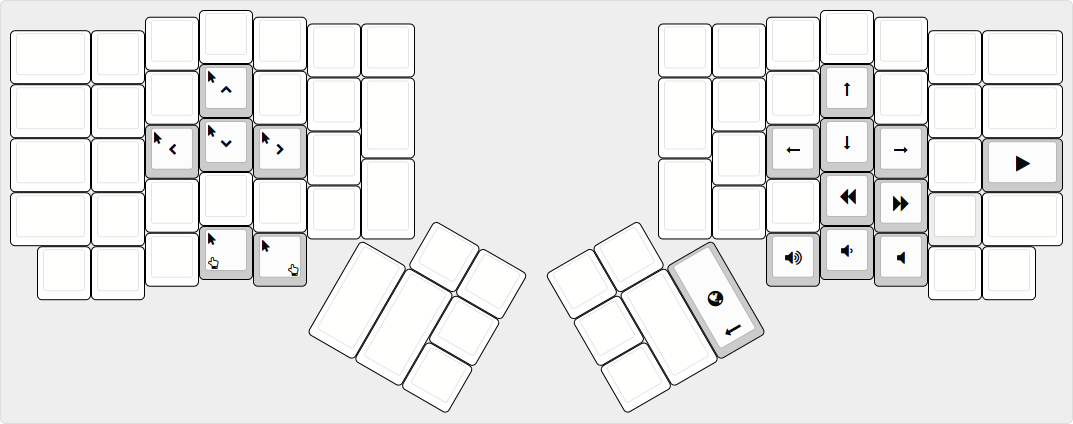
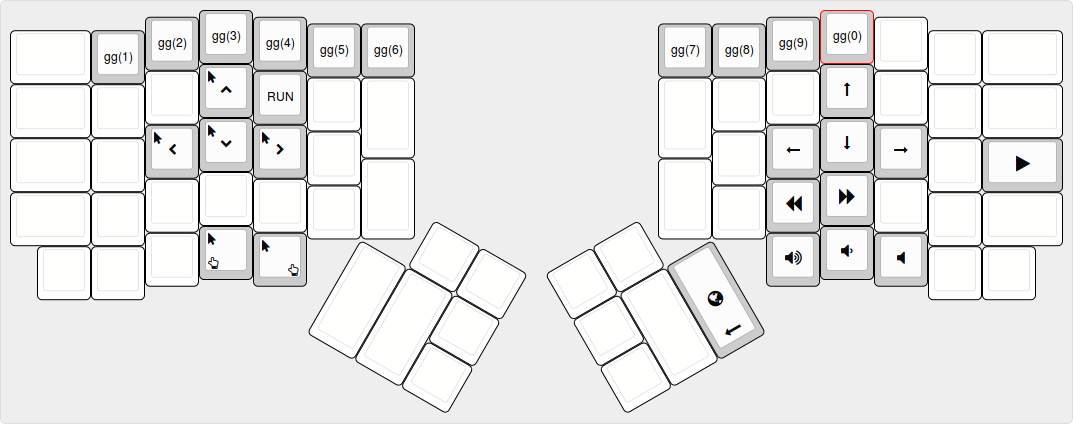
[deadcyclo layout] Added second unicode layer, more sane layer switches

Changed region(s): [[0.0615, 0.0, 0.3998, 0.3066], [0.6151, 0.0, 0.8304, 0.184], [0.7074, 0.3986, 0.8611, 0.5519]]

diff --git a/keyboards/ergodox/keymaps/deadcyclo/keymap.c b/keyboards/ergodox/keymaps/deadcyclo/keymap.c
@@ -5,8 +5,9 @@
 
 #define BASE 0 // default layer
 #define SYMB 1 // symbols
-#define MDIA 2 // media keys
-#define NAVG 3 // navigation
+#define MDIA 2 // media keys and navigation
+#define UNI 3  // unicode 1
+#define UNI2 4 // unicode 2
 
 enum macros {
   RUN
@@ -94,11 +95,11 @@ const uint16_t PROGMEM keymaps[][MATRIX_ROWS][MATRIX_COLS] = {
  * ,--------------------------------------------------.           ,--------------------------------------------------.
  * | Esc/L3 |   1  |   2  |   3  |   4  |   5  |  6   |           |   6  |   7  |   8  |   9  |   0  |   -  |   =/L3 |
  * |--------+------+------+------+------+-------------|           |------+------+------+------+------+------+--------|
- * | Tab/L1 |   Q  |   W  |   E  |   R  |   T  |  L1  |           |  L1  |   Y  |   U  |   I  |   O  |   P  |   \/L1 |
+ * | Tab/L1 |   Q  |   W  |   E  |   R  |   T  |  L1  |           |  L2  |   Y  |   U  |   I  |   O  |   P  |   \/L1 |
  * |--------+------+------+------+------+------|      |           |      |------+------+------+------+------+--------|
- * | LCtrl  |   A  |   S  |   D  |   F  |   G  |------|           |------|   H  |   J  |   K  |   L  |; / L2| ctrl/'|
+ * | LCtrl  |   A  |   S  |   D  |   F  |   G  |------|           |------|   H  |   J  |   K  |   L  |   ;  | ctrl/'|
  * |--------+------+------+------+------+------| Hyper|           | Meh  |------+------+------+------+------+--------|
- * | LShift |Z/Ctrl|   X  |   C  |   V  |   B  |      |           |      |   N  |   M  |   ,  |   .  |//Ctrl| RShift |
+ * | LShift |Z / L4|X / L2|   C  |   V  |   B  |      |           |      |   N  |   M  |   ,  |. / L2|/ / L4| RShift |
  * `--------+------+------+------+------+-------------'           `-------------+------+------+------+------+--------'
  *   |Grv/L1|  UNI |AltShf| Lalt | Ralt |                                       | Lalt | Ralt | LEAD |  UNI | ~/L1 |
  *   `----------------------------------'                                       `----------------------------------'
@@ -114,25 +115,25 @@ const uint16_t PROGMEM keymaps[][MATRIX_ROWS][MATRIX_COLS] = {
 // Otherwise, it needs KC_*
 [BASE] = KEYMAP(  // layer 0 : default
         // left hand
-	LT(NAVG,KC_ESC),         KC_1,         KC_2,   KC_3,   KC_4,   KC_5,   KC_6,
+	LT(UNI,KC_ESC),         KC_1,         KC_2,   KC_3,   KC_4,   KC_5,   KC_6,
         LT(SYMB,KC_TAB),        KC_Q,         KC_W,   KC_E,   KC_R,   KC_T,   TG(SYMB),
-        KC_LCTL,        LT(MDIA, KC_A),         KC_S,   KC_D,   KC_F,   KC_G,
-        KC_LSFT,        CTL_T(KC_Z),  KC_X,   KC_C,   KC_V,   KC_B,   ALL_T(KC_NO),
+        KC_LCTL,        KC_A,         KC_S,   KC_D,   KC_F,   KC_G,
+        KC_LSFT,        LT(4, KC_Z),  LT(MDIA, KC_X),   KC_C,   KC_V,   KC_B,   ALL_T(KC_NO),
         LT(SYMB,KC_GRV),LCTL(LSFT(KC_U)),      LALT(KC_LSFT),  KC_RALT,KC_LALT,
                                               ALT_T(KC_APP),  KC_HOME,
                                                               KC_END,
                                                KC_SPC,KC_TAB,KC_LBRC,
         // right hand
-		KC_6,     KC_7,   KC_8,   KC_9,   KC_0,   KC_MINS,             LT(NAVG,KC_EQL),
-	TG(SYMB),    KC_Y,   KC_U,   KC_I,   KC_O,   KC_P,             LT(SYMB, KC_BSLS),
-	KC_H,   KC_J,   KC_K,   KC_L,   LT(MDIA, KC_SCLN),CTL_T(KC_QUOT),
-             MEH_T(KC_NO),KC_N,   KC_M,   KC_COMM,KC_DOT, CTL_T(KC_SLSH),   KC_RSFT,
+		KC_6,     KC_7,   KC_8,   KC_9,   KC_0,   KC_MINS,             LT(UNI,KC_EQL),
+	TG(MDIA),    KC_Y,   KC_U,   KC_I,   KC_O,   KC_P,             LT(SYMB, KC_BSLS),
+	KC_H,   KC_J,   KC_K,   KC_L,   KC_SCLN,CTL_T(KC_QUOT),
+	MEH_T(KC_NO),KC_N,   KC_M,   KC_COMM,LT(MDIA, KC_DOT), LT(UNI2, KC_SLSH),   KC_RSFT,
 		KC_LALT,  KC_RALT,KC_LEAD,LCTL(LSFT(KC_U)),          LT(SYMB,KC_TILD),
              KC_PGUP,        KC_INS,
              KC_PGDN,
-             KC_RBRC,KC_BSPC, KC_ENT
+             KC_RBRC,KC_BSPC, KC_ENT   
     ),
-/* Keymap 1: Symbol Layer LCTL(LSFT(KC_U))
+/* Keymap 1: Symbol Layer LCTL(LSFT(KC_U))  
  *                                                  
  * ,--------------------------------------------------.           ,--------------------------------------------------.
  * |        |  F1  |  F2  |  F3  |  F4  |  F5  |  F6  |           |  F6  |  F7  |  F8  |  F9  |  F10 |  F11 |   F12  |
@@ -177,13 +178,13 @@ const uint16_t PROGMEM keymaps[][MATRIX_ROWS][MATRIX_COLS] = {
 /* Keymap 2: Media, mouse and navigation
  *
  * ,--------------------------------------------------.           ,--------------------------------------------------.
- * |        | gg(1)|      |      |      |      |      |           |      |      |      |      |      |      |        |
+ * |        | gg(1)| gg(2)| gg(3)| gg(4)| gg(5)| gg(6)|           | gg(6)| gg(7)| gg(8)| gg(9)| gg(0)|      |        |
  * |--------+------+------+------+------+-------------|           |------+------+------+------+------+------+--------|
  * |        |      |      | MsUp | RUN  |      |      |           |      |      |      |  Up  |      |      |        |
  * |--------+------+------+------+------+------|      |           |      |------+------+------+------+------+--------|
  * |        |      |MsLeft|MsDown|MsRght|      |------|           |------|      | Left | Down | Right|      |  Play  |
  * |--------+------+------+------+------+------|      |           |      |------+------+------+------+------+--------|
- * |        |      |      |      |      |      |      |           |      |      |      | Prev | Next |      |        |
+ * |        |      |      |      |      |      |      |           |      |      | Prev | Next |      |      |        |
  * `--------+------+------+------+------+-------------'           `-------------+------+------+------+------+--------'
  *   |      |      |      | Lclk | Rclk |                                       |VolUp |VolDn | Mute |      |      |
  *   `----------------------------------'                                       `----------------------------------'
@@ -209,7 +210,7 @@ KC_TRNS, KC_TRNS, KC_TRNS, KC_MS_U, M(RUN), KC_TRNS, KC_TRNS,
 		F(I3_GO_GROUP_6), F(I3_GO_GROUP_7), F(I3_GO_GROUP_8), F(I3_GO_GROUP_9), F(I3_GO_GROUP_10), KC_TRNS, KC_TRNS,
        KC_TRNS,  KC_TRNS, KC_TRNS, KC_UP,   KC_TRNS,  KC_TRNS, KC_TRNS,
                  KC_TRNS, KC_LEFT, KC_DOWN, KC_RIGHT, KC_TRNS, KC_MPLY,
-       KC_TRNS,  KC_TRNS, KC_TRNS, KC_MPRV, KC_MNXT,  KC_TRNS, KC_TRNS,
+       KC_TRNS,  KC_TRNS, KC_MPRV, KC_MNXT, KC_TRNS,  KC_TRNS, KC_TRNS,
                           KC_VOLU, KC_VOLD, KC_MUTE,  KC_TRNS, KC_TRNS,
        KC_TRNS, KC_TRNS,
        KC_TRNS,
@@ -238,7 +239,7 @@ KC_TRNS, KC_TRNS, KC_TRNS, KC_MS_U, M(RUN), KC_TRNS, KC_TRNS,
  *                                 `--------------------'       `--------------------'
  */
 // Unicode
-[NAVG] = KEYMAP(
+[UNI] = KEYMAP(
 		KC_TRNS, UC(0x250c), UC(0x2510), UC(0x2514), UC(0x2518), UC(0x2502), UC(0x2500),
 		KC_TRNS, F(EMOJI_SHRUG), F(EMOJI_YAY), F(EMOJI_HUG), F(EMOJI_SMILE), F(EMOJI_SMILE2), KC_TRNS,
 		KC_TRNS, F(EMOJI_HMM1), F(EMOJI_HMM2), F(EMOJI_BEAR1), F(EMOJI_BEAR2), F(EMOJI_FUU),
@@ -254,6 +255,48 @@ KC_TRNS, KC_TRNS, KC_TRNS, KC_MS_U, M(RUN), KC_TRNS, KC_TRNS,
        KC_TRNS,  UC(0x2764), UC(0x2610), UC(0x2611), UC(0x2612), UC(0x2713), UC(0x2584),
        UC(0x2714), UC(0x2717), UC(0x2718), UC(0x25cf), UC(0x2580),
 		UC(0x2592), UC(0x2593),
+		KC_TRNS,
+		KC_TRNS, KC_TRNS, KC_TRNS
+),
+
+/* Keymap 4: Unicode 2 
+ *
+ * ,--------------------------------------------------.           ,--------------------------------------------------.
+ * |        |  ¹   |  ²   |  ³   |  ⁴   |  ⁵   |  ⁶   |           |  ⁶   |  ⁷   |  ⁸   |  ⁹   |  ⁰   |  ℃   |   ™    |
+ * |--------+------+------+------+------+-------------|           |------+------+------+------+------+------+--------|
+ * |        |  ₁   |  ₂   |  ₃   |  ₄   |  ₅   |  ₆   |           |  ₆   |  ₇   |  ₈   |  ₉   |  ₀   |  ⁄   |        |
+ * |--------+------+------+------+------+------|      |           |      |------+------+------+------+------+--------|
+ * |        |  ⅞   |  ⅝   |  ⅜   |  ⅛   |  ⅚   |------|           |------|  ⅓   |  ⅒   |  ⅑   |  ⅐   |  ¾   |        |
+ * |--------+------+------+------+------+------|      |           |      |------+------+------+------+------+--------|
+ * |        |      |      |  ⅗   |  ⅖   |  ⅕   |  ⅔   |           |  ¼   |  ⅙   |  ⅘   |  ½   |      |      |        |
+ * `--------+------+------+------+------+-------------'           `-------------+------+------+------+------+--------'
+ *   |      |      |      |      |      |                                       |      |      |      |      |      |
+ *   `----------------------------------'                                       `----------------------------------'
+ *                                        ,-------------.       ,-------------.
+ *                                        |      |      |       |      |      |
+ *                                 ,------|------|------|       |------+------+------.
+ *                                 |      |      |      |       |      |      |      | 
+ *                                 |      |      |------|       |------|      |      |
+ *                                 |      |      |      |       |      |      |      |
+ *                                 `--------------------'       `--------------------'
+ */
+// Unicode 2   
+[UNI2] = KEYMAP(
+		KC_TRNS, UC(0x00b9), UC(0x00b2), UC(0x00b3), UC(0x2074), UC(0x2075), UC(0x2076),
+		KC_TRNS, UC(0x2081), UC(0x2082), UC(0x2083), UC(0x2084), UC(0x2085), UC(0x2086),
+		KC_TRNS, UC(0x215e), UC(0x215d), UC(0x215c), UC(0x215b), UC(0x215a),
+		KC_TRNS, KC_TRNS, KC_TRNS, UC(0x2157), UC(0x2156), UC(0x2155), UC(0x2154),
+		KC_TRNS, KC_TRNS, KC_TRNS, KC_TRNS, KC_TRNS,
+		KC_TRNS, KC_TRNS,
+                                                    KC_TRNS,
+                                  KC_TRNS, KC_TRNS, KC_TRNS,
+    // right hand
+		UC(0x2076),  UC(0x2077), UC(0x2078), UC(0x2079), UC(0x2070), UC(0x2103), UC(0x2122),
+		UC(0x2086),  UC(0x2087), UC(0x2088), UC(0x2089), UC(0x2080), UC(0x2044), KC_TRNS,
+		UC(0x2153), UC(0x2152), UC(0x2151), UC(0x2150), UC(0x00be), KC_TRNS,
+		UC(0x00bc),  UC(0x2159), UC(0x2158), UC(0x00bd), KC_TRNS, KC_TRNS, KC_TRNS,
+       KC_TRNS, KC_TRNS, KC_TRNS, KC_TRNS, KC_TRNS,
+		KC_TRNS, KC_TRNS,
 		KC_TRNS,
 		KC_TRNS, KC_TRNS, KC_TRNS
 ),
@@ -506,8 +549,11 @@ void matrix_scan_user(void) {
       #endif
       break;
     case 4:
-      ergodox_right_led_1_on(); // TODO: Make a fourth layer
+      ergodox_right_led_1_on();
       ergodox_right_led_3_on();
+      #ifdef RGBLIGHT_ENABLE
+       rgblight_setrgb(0xff,0x00,0xff);
+      #endif
       break;
     default:
       // none

diff --git a/keyboards/ergodox/keymaps/deadcyclo/readme.md b/keyboards/ergodox/keymaps/deadcyclo/readme.md
@@ -51,9 +51,15 @@ provides standard media control keys, and default arrow keys.
 
 ## Layer 3 - Unicode
 
-[![Layer 3 - Unicode](images/deadcyclo-layer-3-navigation.png)](http://www.keyboard-layout-editor.com/#/gists/67d9613dcd873c68693d11863d0fd289)
+[![Layer 3 - Unicode](images/deadcyclo-layer-3-unicode.png)](http://www.keyboard-layout-editor.com/#/gists/67d9613dcd873c68693d11863d0fd289)
 
 The unicode layer provides keys for directly typing unicode (utf-8)
+
+## Layer 4 - Unicode 2
+
+[![Layer 43 - Unicode](images/deadcyclo-layer-4-unicode-2.png)](http://www.keyboard-layout-editor.com/#/gists/7b2241110ab8311d9668a0798f3baf4a)
+
+The unicode 2 layer provides keys for directly typing unicode (utf-8)
 
 # Changelog
 
@@ -63,6 +69,7 @@ The unicode layer provides keys for directly typing unicode (utf-8)
 - 24.01.2017 Added unicode keys. Added shrug hug and yay. Moved Navigation to layer 2
 - 25.01.2017 Added lots of new emojis and some unicode keys
 - 27.01.2017 Added new unicode keys and shortcut for ibus unicode composer key (CTRL+SHIFT+U)
+- 11.03.2017 Added additional unicode layer. Moved some layer switch keys to more sane locations
 
 # TODO
 
